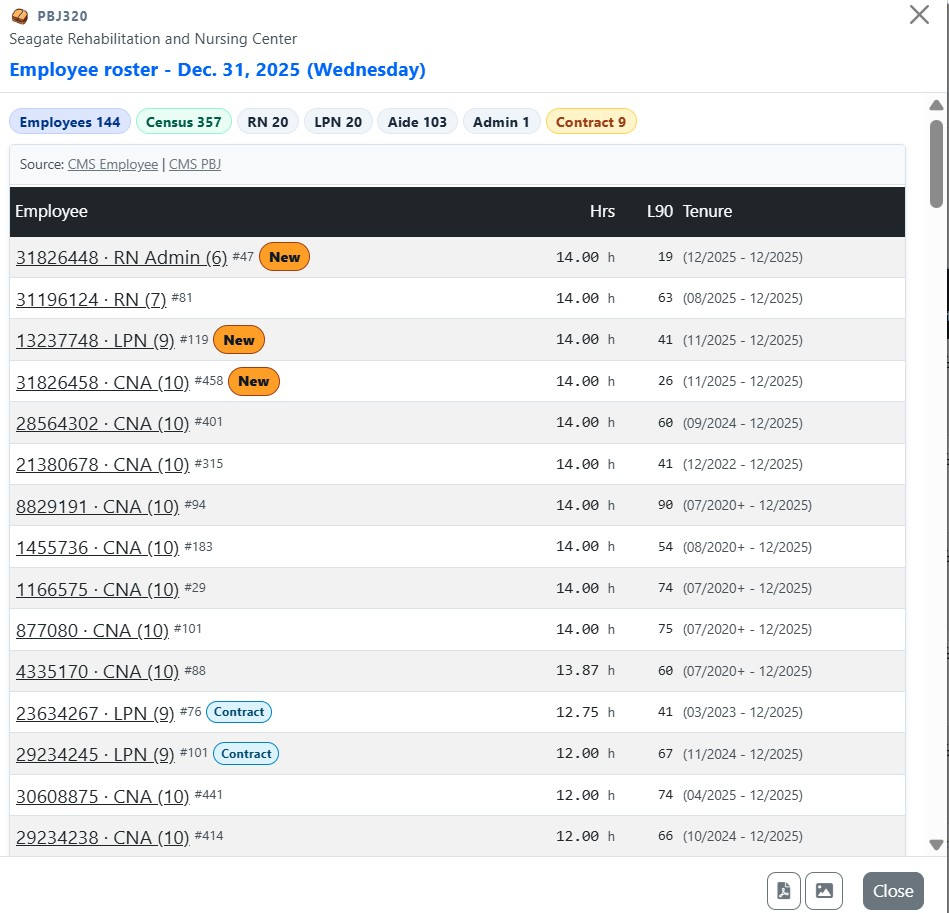
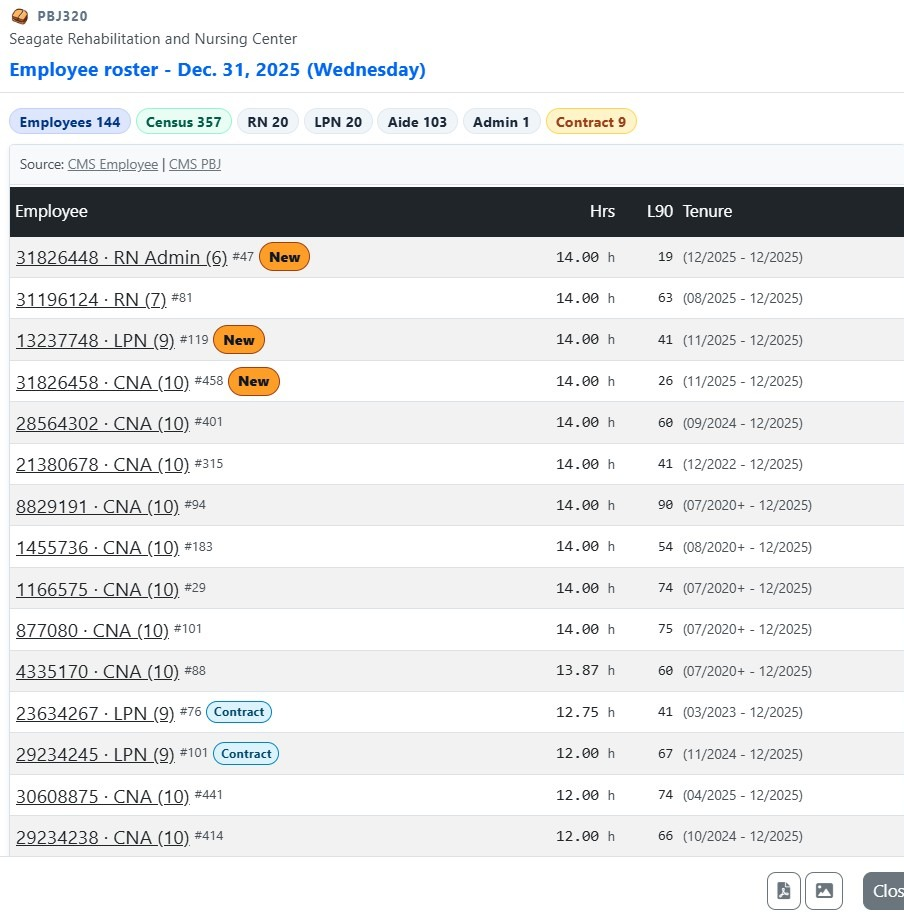
Refine Premium landing page layout and CTAs
Reorder feature copy, compact utility strip, full-width desktop pricing buttons with softer primary glow, and crop roster screenshot to hide scrollbar.

diff --git a/premium/premium-hub.css b/premium/premium-hub.css
@@ -2693,9 +2693,18 @@ a.pbj-audit-hero-actions__primary {
 }
 
 @media (min-width: 992px) {
-    .pbj-audit-pricing-card__actions .pbj-audit-pricing-card__cta {
-        width: auto;
-        max-width: 20rem;
+    .pbj-audit-pricing-card__actions .pbj-audit-pricing-card__cta,
+    .pbj-audit-pricing-card__actions .pbj-audit-pricing-card__cta-outline {
+        width: 100%;
+        max-width: 100%;
+    }
+
+    .pbj-audit-pricing-card__actions .pbj-audit-pricing-card__cta.pbj-audit-generate:not(.pbj-audit-pricing-card__cta-outline) {
+        box-shadow: 0 3px 12px rgba(124, 58, 237, 0.28);
+    }
+
+    .pbj-audit-pricing-card__actions .pbj-audit-pricing-card__cta.pbj-audit-generate:not(.pbj-audit-pricing-card__cta-outline):hover:not(:disabled) {
+        box-shadow: 0 4px 14px rgba(124, 58, 237, 0.32);
     }
 }
 
@@ -2800,21 +2809,32 @@ a.pbj-audit-hero-actions__primary {
 
 .pbj-audit-page-end {
     max-width: 56rem;
-    margin: clamp(0.35rem, 1.2vw, 0.65rem) auto 0;
-    padding: 0 clamp(0.35rem, 1.5vw, 0.5rem) clamp(1.35rem, 3vw, 2rem);
+    margin: clamp(0.2rem, 0.8vw, 0.4rem) auto 0;
+    padding: 0 clamp(0.35rem, 1.5vw, 0.5rem) clamp(1rem, 2.5vw, 1.5rem);
     display: flex;
     flex-direction: column;
-    gap: 0.85rem;
+    gap: 0.6rem;
 }
 
 .pbj-audit-page-end__strip {
+    padding: clamp(0.35rem, 1.2vw, 0.5rem) 0 0;
+}
+
+.pbj-audit-page-end__utility-row {
+    align-items: stretch;
+}
+
+.pbj-audit-page-end__utility-row > [class*="col-"] {
     display: flex;
-    flex-direction: column;
-    gap: 0.55rem;
+}
+
+.pbj-audit-page-end__utility-row .pbj-audit-media-note,
+.pbj-audit-page-end__utility-row .pbj-audit-oss-panel {
+    flex: 1;
 }
 
 .pbj-audit-about {
-    padding-top: 0.9rem;
+    padding-top: 0.65rem;
     border-top: 1px solid #e2e8f0;
 }
 
@@ -2852,9 +2872,8 @@ a.pbj-audit-hero-actions__primary {
 
 .pbj-audit-media-note {
     margin: 0;
-    padding: 0.85rem 0 0.5rem;
-    border-top: 1px solid #e2e8f0;
-    font-size: 0.7rem;
+    padding: 0;
+    font-size: 0.72rem;
     line-height: 1.45;
     color: #94a3b8;
     text-align: left;
@@ -2871,7 +2890,7 @@ a.pbj-audit-hero-actions__primary {
 }
 
 .pbj-audit-features {
-    max-width: 56rem;
+    max-width: min(69rem, 100%);
     margin: clamp(0.5rem, 1.5vw, 0.85rem) auto 0.5rem;
     padding: clamp(0.75rem, 2vw, 1rem) clamp(0.35rem, 1.5vw, 0.5rem) clamp(0.85rem, 2vw, 1rem);
     background: #fff;
@@ -2880,8 +2899,12 @@ a.pbj-audit-hero-actions__primary {
 .pbj-audit-features__intro {
     width: 100%;
     max-width: none;
-    margin: 0 0 1.15rem;
+    margin: 0 0 0.85rem;
     padding: 0 clamp(0.15rem, 1vw, 0.35rem);
+}
+
+.pbj-audit-features__intro .pbj-audit-features__dek {
+    margin-bottom: 0.35rem;
 }
 
 .pbj-audit-features__dek {
@@ -2902,6 +2925,23 @@ a.pbj-audit-hero-actions__primary {
     color: #334155;
 }
 
+.pbj-audit-features__detail {
+    width: 100%;
+    max-width: 50rem;
+    margin: clamp(0.85rem, 2vw, 1.15rem) 0 0;
+    padding: 0 clamp(0.15rem, 1vw, 0.35rem) 0 clamp(0.85rem, 1.5vw, 1rem);
+    border-left: 3px solid rgba(99, 102, 241, 0.22);
+}
+
+.pbj-audit-features__note {
+    margin: 0;
+    font-size: clamp(0.86rem, 1.65vw, 0.92rem);
+    line-height: 1.6;
+    color: #64748b;
+    text-align: left;
+    text-wrap: pretty;
+}
+
 .pbj-audit-features__heading {
     font-family: "Plus Jakarta Sans", "Inter", system-ui, sans-serif;
     font-size: clamp(1.15rem, 2.6vw, 1.4rem);
@@ -2916,6 +2956,8 @@ a.pbj-audit-hero-actions__primary {
 
 .pbj-audit-features__row {
     align-items: stretch;
+    max-width: min(69rem, 100%);
+    margin-inline: auto;
 }
 
 .pbj-audit-features__carousel {
@@ -3098,30 +3140,29 @@ a.pbj-audit-hero-actions__primary {
 }
 
 .pbj-audit-oss-panel {
-    margin: 0.65rem 0 0;
-    padding: 0.85rem 1rem 0.95rem;
-    border: 1px solid rgba(99, 102, 241, 0.22);
-    border-radius: 12px;
-    background: linear-gradient(135deg, #f8fafc 0%, #eef2ff 48%, #f8fafc 100%);
-    box-shadow: 0 2px 12px rgba(79, 70, 229, 0.06);
+    margin: 0;
+    padding: 0.45rem 0.6rem 0.5rem;
+    border: 1px solid rgba(148, 163, 184, 0.32);
+    border-radius: 8px;
+    background: #f8fafc;
 }
 
 .pbj-audit-oss-note {
     margin: 0;
-    font-size: 0.82rem;
-    line-height: 1.5;
-    color: #475569;
+    font-size: 0.74rem;
+    line-height: 1.45;
+    color: #64748b;
     text-align: left;
     text-wrap: pretty;
 }
 
 .pbj-audit-oss-note a {
     font-weight: 600;
-    color: #4338ca;
+    color: #64748b;
 }
 
 .pbj-audit-oss-note a:hover {
-    color: #5b21b6;
+    color: #4338ca;
 }
 
 .pbj-hub-modal__dialog--wide {

diff --git a/premium/index.html b/premium/index.html
@@ -30,7 +30,7 @@
     <link rel="preconnect" href="https://fonts.gstatic.com" crossorigin>
     <link href="https://fonts.googleapis.com/css2?family=Inter:ital,opsz,wght@0,14..32,400..700;1,14..32,400..700&family=JetBrains+Mono:wght@400;500&family=Plus+Jakarta+Sans:wght@500;600;700&display=swap" rel="stylesheet">
     <link rel="stylesheet" href="/premium-assets/premium-site.css?v=24">
-    <link rel="stylesheet" href="/premium-assets/premium-hub.css?v=32">
+    <link rel="stylesheet" href="/premium-assets/premium-hub.css?v=36">
 </head>
 <body class="pbj-premium-hub pbj-premium-hub--audit">
     <a href="#main-content" class="visually-hidden-focusable btn btn-sm btn-primary position-fixed top-0 start-0 m-2" style="z-index:1080;">Skip to main content</a>
@@ -83,7 +83,7 @@
                 <section class="pbj-audit-features anchor-target" aria-labelledby="audit-cap-heading">
                     <div class="pbj-audit-features__intro">
                         <h2 id="audit-cap-heading" class="pbj-audit-features__heading">What&rsquo;s in the PBJ320 Dashboard</h2>
-                        <p class="pbj-audit-features__dek"><strong class="pbj-audit-features__dek-lead">Built for one facility. Designed to save time and build stronger, data-driven cases.</strong> Each PBJ320 Premium dashboard is a facility workspace tied to a single CCN. It brings up to nine years of daily PBJ staffing, employee-level detail, case-mix context, compliance indicators, citation history, and Report Builder exports into one place.</p>
+                        <p class="pbj-audit-features__dek"><strong class="pbj-audit-features__dek-lead">Built around one facility. Designed to save time and build stronger, data-driven cases.</strong></p>
                     </div>
                     <div class="row g-3 pbj-audit-features__row d-none d-md-flex">
                         <div class="col-md-4 d-flex">
@@ -91,7 +91,7 @@
                                 <div class="pbj-audit-card__thumb-wrap">
                                     <img class="pbj-audit-card__thumb" src="/premium-assets/media/state-compliance.jpg" alt="Sample daily HPRD chart with state reference threshold for compliance screening" width="400" height="225" loading="lazy" decoding="async">
                                 </div>
-                                <h3 class="pbj-audit-card__title">Compliance Checks</h3>
+                                <h3 class="pbj-audit-card__title">Staffing Checks</h3>
                                 <p class="pbj-audit-card__text">Flag daily PBJ totals against state thresholds, RN rules, and custom HPRD rules—facility-level CMS data for screening.</p>
                                 <a class="pbj-audit-card__evidence mt-auto" href="/premium/335513#complianceStandardsSection">View sample dashboard →</a>
                             </article>
@@ -124,7 +124,7 @@
                                 <div class="pbj-audit-card__thumb-wrap">
                                     <img class="pbj-audit-card__thumb" src="/premium-assets/media/state-compliance.jpg" alt="Sample daily HPRD chart with state reference threshold for compliance screening" width="400" height="225" loading="lazy" decoding="async">
                                 </div>
-                                <h3 class="pbj-audit-card__title">Compliance Checks</h3>
+                                <h3 class="pbj-audit-card__title">Staffing Checks</h3>
                                 <p class="pbj-audit-card__text">Flag daily PBJ totals against state thresholds, RN rules, and custom HPRD rules—facility-level CMS data for screening.</p>
                                 <a class="pbj-audit-card__evidence mt-auto" href="/premium/335513#complianceStandardsSection">View sample dashboard →</a>
                             </article>
@@ -147,10 +147,13 @@
                         </div>
                         </div>
                         <div class="pbj-audit-features__dots" id="audit-features-dots" role="tablist" aria-label="Capability slides">
-                            <button type="button" class="pbj-audit-features__dot is-active" role="tab" aria-selected="true" aria-label="Compliance Checks" data-slide="0"></button>
+                            <button type="button" class="pbj-audit-features__dot is-active" role="tab" aria-selected="true" aria-label="Staffing Checks" data-slide="0"></button>
                             <button type="button" class="pbj-audit-features__dot" role="tab" aria-selected="false" aria-label="Employee Roster" data-slide="1"></button>
                             <button type="button" class="pbj-audit-features__dot" role="tab" aria-selected="false" aria-label="Acuity and Case-Mix" data-slide="2"></button>
                         </div>
+                    </div>
+                    <div class="pbj-audit-features__detail">
+                        <p class="pbj-audit-features__note">Each PBJ320 Premium dashboard is tied to a single CMS-certified nursing home. It combines up to nine years of daily PBJ staffing data, employee-level detail, case-mix context, staffing compliance checks, citation history, ownership context, and report-ready exports in one place.</p>
                     </div>
                 </section>
 
@@ -185,10 +188,16 @@
 
                 <section class="pbj-audit-page-end anchor-target" aria-labelledby="audit-about-heading">
                     <div class="pbj-audit-page-end__strip">
-                        <p class="pbj-audit-media-note">Reporters: need advanced staffing, ownership, or facility data? <a href="mailto:[email redacted]?subject=PBJ320%20%E2%80%94%20media%20question">Email</a> the facility name, organization, topic, and deadline.</p>
-                        <aside class="pbj-audit-oss-panel" aria-label="Public PBJ320">
-                            <p class="pbj-audit-oss-note"><a href="https://www.pbj320.com/">PBJ320&rsquo;s public nursing home staffing dashboard</a> — Payroll-Based Journal (PBJ) data across ~15,000 U.S. nursing homes.</p>
-                        </aside>
+                        <div class="row g-2 pbj-audit-page-end__utility-row">
+                            <div class="col-12 col-md-6">
+                                <p class="pbj-audit-media-note">Reporters: Need advanced staffing, ownership, or facility data? <a href="mailto:[email redacted]?subject=PBJ320%20%E2%80%94%20media%20question">Email PBJ320</a> with the facility name, organization, topic, and deadline.</p>
+                            </div>
+                            <div class="col-12 col-md-6">
+                                <aside class="pbj-audit-oss-panel" aria-label="Free public dashboard">
+                                    <p class="pbj-audit-oss-note"><a href="https://www.pbj320.com/">Free public dashboard</a>: Search nine years of CMS Payroll-Based Journal staffing data across ~15,000 U.S. nursing homes.</p>
+                                </aside>
+                            </div>
+                        </div>
                     </div>
                     <div class="pbj-audit-about">
                         <h2 id="audit-about-heading" class="pbj-audit-about__heading">About PBJ320</h2>
@@ -212,8 +221,6 @@
                                 <a href="https://data.cms.gov/quality-of-care/payroll-based-journal-employee-detail-nursing-home-staffing" target="_blank" rel="noopener">Employee Detail</a>
                                 <span aria-hidden="true">·</span>
                                 <a href="https://www.pbj320.com/">PBJ320</a>
-                                <span aria-hidden="true">·</span>
-                                <a href="https://www.pbj320.com/contact">Contact</a>
                             </span>
                         </div>
                     </div>